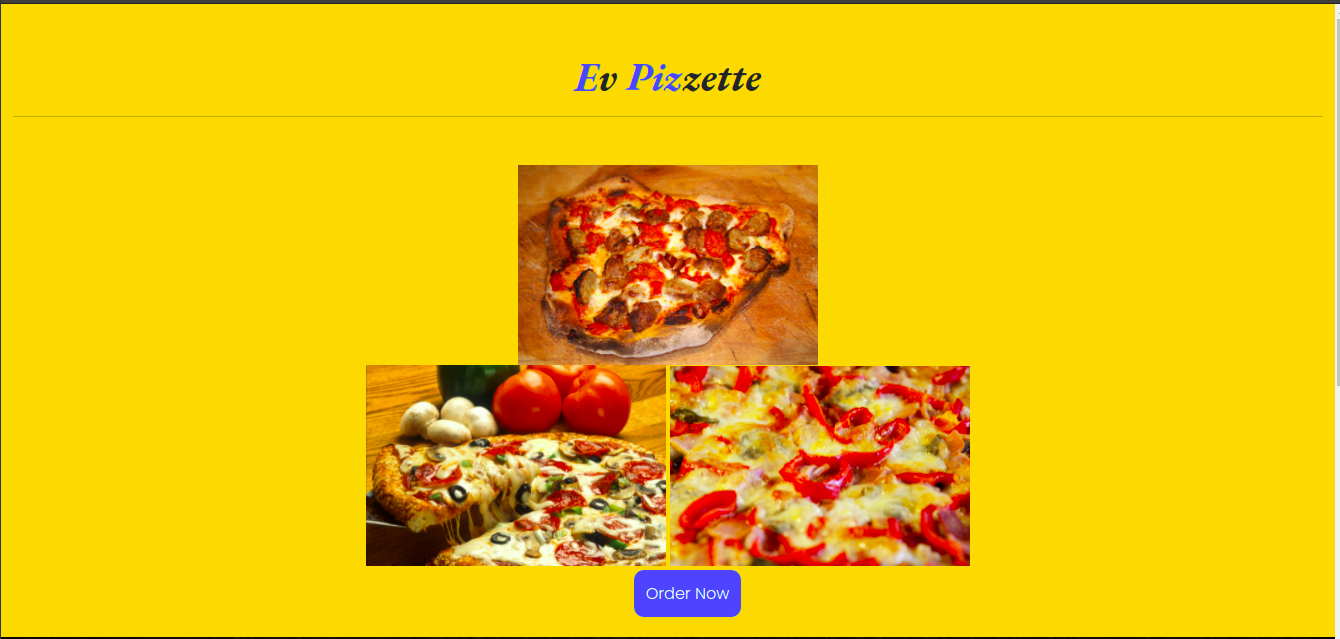
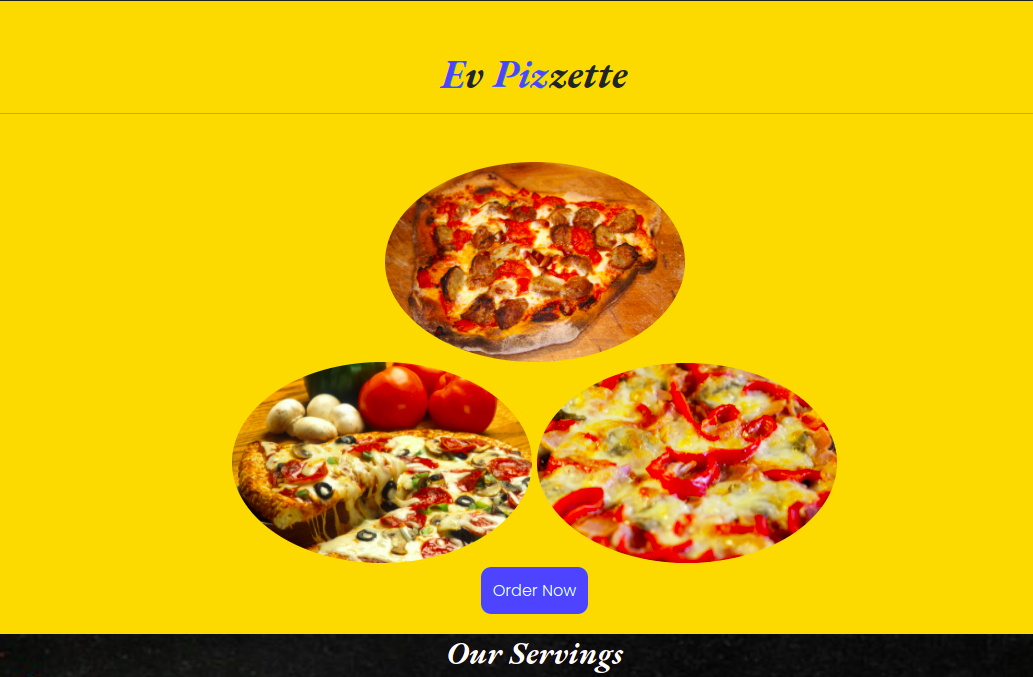
add border-radius

diff --git a/index.html b/index.html
@@ -12,18 +12,20 @@
 </head>
 <body class="body">
   <div class="container-fluid page1 text-center">
+    <div class="img">
     <h1 class="text-center my-5">
       <span class="spanColor">E</span>v <span class="spanColor"> Piz</span>zette
       <hr>
     </h1>
+      
         <img class="hide" src="https://www.cookipedia.co.uk/wiki/images/a/a9/New_York-style_stone_baked_pizza_recipe.jpg"  width="300px"alt="yummy">
         <img src="https://www.publicdomainpictures.net/pictures/270000/velka/pizza-1532881335pCX.jpg" width="300px"alt="yummy">
         <img class="" src="https://www.publicdomainpictures.net/pictures/10000/velka/pizza-topping-87127713332743Vt.jpg" alt="yummy" width="300px">
-        
+      
 
     <div class="button my-3">
       <a href="#order" class="btnOrder"> Order Now </a>
-  
+    </div>
   </div>
   </div>
 

diff --git a/Styles/Styles.css b/Styles/Styles.css
@@ -24,18 +24,23 @@
   
   
 }
+img{
+  border-radius: 50%;;
+}
 
 .button{
   text-align: center;
   max-width: 100vw;
 
 }
-.page1{
-  height: 80vh;
-}
+
 .h2,h1{
   font-family: 'EB Garamond', serif;
   text-align: center;
+}
+h1{
+  background-color: #ffc922;
+  
 }
 
 .menu{
@@ -82,5 +87,10 @@ ul{
     position: relative;
     margin: auto;
   }
+  .page1{
+    height: 80vh;
+    
+  }
+ 
   
 }
